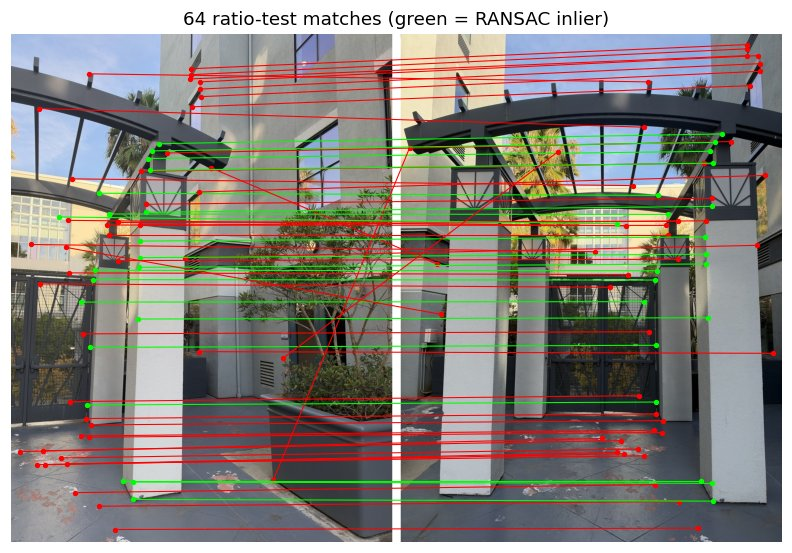
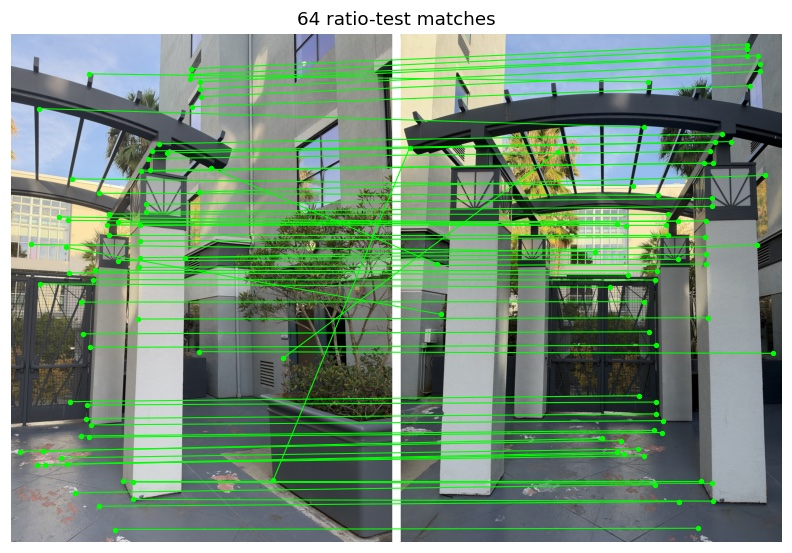
4b: rewrite B.2-B.4 and conclusion, green-only B.3 matches

Changed region(s): [[0.0, 0.0, 1.0, 0.9222], [0.1212, 0.953, 0.8788, 0.9837]]

diff --git a/cs180/project4/index.html b/cs180/project4/index.html
@@ -177,41 +177,28 @@
 <p>The three sets behave similarly; I don't see anything notably different between them.</p>
 
 <h2>B.2: Feature descriptors</h2>
-<p>For each corner I take the 40×40 window around it and turn it into an 8×8 patch by sampling every 5 pixels. I blur the image first (Gaussian, sigma 2.5) so each sample summarizes its 5×5 block instead of aliasing a single pixel. That's the point of the big window: a blurry descriptor tolerates a few pixels of error in the corner position. Then I bias/gain-normalize each patch (subtract its mean, divide by its standard deviation), so a brighter or darker exposure of the same spot still gives the same vector. Corners whose window runs off the image are dropped.</p>
+<p>We then take 40×40 window patches around all the corners, and we need to pre-process them. The general idea is to normalize, so that local extremes are less influential on the overall feature matching. The normalization happens in two ways. One is a Gaussian blur (sigma 2.5) before sampling the window down to 8×8, which handles it from the absolute, pixel-level perspective. The other is bias/gain normalization (subtract the mean, divide by the standard deviation), which handles brightness and contrast differing by a factor between photos.</p>
 <figure class="wide"><img src="assets/mosaic2_descriptors.jpg" alt="eight random gate features: 40x40 window above, normalized 8x8 descriptor below"></figure>
 <figure class="wide"><img src="assets/mosaic3_descriptors.jpg" alt="eight random courtyard features: 40x40 window above, normalized 8x8 descriptor below"></figure>
-<p>Top row is the 40×40 window in color, bottom row is the normalized 8×8 descriptor that is actually compared. The window edges and grid lines are still clearly visible at 8×8.</p>
 
 <h2>B.3: Feature matching</h2>
-<p>I compute the Euclidean distance between every descriptor in one image and every descriptor in the other (the provided <code>dist2</code>), and find each feature's nearest and second-nearest neighbour. Following Lowe, a match is kept only when the best neighbour is much better than the second best:</p>
+<p>After pre-processing, we try to find feature matches. I went with Lowe's idea and only count a match when the nearest neighbour is much closer than the second nearest:</p>
 \[ \frac{d_{1\text{-NN}}}{d_{2\text{-NN}}} < 0.6 \]
-<p>The idea is that a true match has one clear partner, while a wrong match on a repeated texture (cabinet doors, windows) looks about as good as several others. Figure 6b in the paper shows correct and incorrect matches separating around \(e_{1\text{-NN}}/e_{2\text{-NN}} \approx 0.4\) in squared error, and my distance ratio of 0.6 is 0.36 in squared terms.</p>
-<p>The ratio test isn't perfect. The red lines below are matches that passed it but were rejected by RANSAC in B.4, many of them on repeated windows and cabinet edges.</p>
+<p>This is a very interesting idea, and I'll explain more in the last paragraph. Basically, it gave me a new perspective on seeing images in a relative rather than absolute manner.</p>
 <figure class="wide"><img src="assets/mosaic3_left_matches.jpg" alt="courtyard left to center: ratio-test matches"></figure>
 <figure class="wide"><img src="assets/mosaic1_left_matches.jpg" alt="kitchen left to center: ratio-test matches"></figure>
 
 <h2>B.4: RANSAC and automatic mosaics</h2>
-<p>4-point RANSAC, implemented from scratch:</p>
+<p>After all that, we still have a decent amount of garbage matches, so we follow the idea of RANSAC:</p>
 <ol>
-  <li>Pick 4 random matches and compute the exact homography through them with <code>computeH</code> from Part A.</li>
-  <li>Map every matched point from image 1 through that \(H\) and count the inliers, the matches that land within 2 pixels of their partner in image 2.</li>
-  <li>Repeat 5000 times and keep the largest inlier set.</li>
+  <li>Pick 4 random matches and compute the exact \(H\) (with <code>computeH</code> from Part A).</li>
+  <li>Map every matched point from image 1 through that \(H\) and count the inliers, which here means the matches that land within 2 pixels of their partner in image 2.</li>
+  <li>Repeat this 5000 times and keep the largest inlier set.</li>
   <li>Refit \(H\) with least squares on all the inliers of the best set.</li>
 </ol>
-<p>Even with half the matches wrong, a random sample of 4 is all-correct about 1 time in 16, so 5000 iterations find a clean sample many times over. The final least-squares fit uses every inlier, not just 4 points, so it is less noisy than any single sample.</p>
-<table>
-  <thead><tr><th>pair</th><th>ratio-test matches</th><th>RANSAC inliers</th></tr></thead>
-  <tbody>
-    <tr><td>Kitchen, left → center</td><td>50</td><td>15</td></tr>
-    <tr><td>Kitchen, right → center</td><td>150</td><td>34</td></tr>
-    <tr><td>Gate, left → center</td><td>77</td><td>25</td></tr>
-    <tr><td>Gate, right → center</td><td>64</td><td>20</td></tr>
-    <tr><td>Courtyard, left → center</td><td>53</td><td>41</td></tr>
-    <tr><td>Courtyard, right → center</td><td>48</td><td>36</td></tr>
-  </tbody>
-</table>
-<figure class="wide"><img src="assets/mosaic2_left_inliers.jpg" alt="gate left to center: RANSAC inliers"></figure>
-<p>The homographies then go straight into my Part A mosaic code (bilinear inverse warping, linear-falloff alpha blending). Manual on the left, automatic on the right:</p>
+<p>Basically, we try to find the \(H\) that the most matches agree with, and then fit it on all of those agreeing pairs. A lot of matches get rejected. In the kitchen below, green lines are the RANSAC inliers and red lines are the rejected matches: every match on the repetitive cabinet doors is thrown out, and only the ones on the rice bag agree with a single homography.</p>
+<figure class="wide"><img src="assets/mosaic1_left_ransac.jpg" alt="kitchen left to center: 15 RANSAC inliers in green, 35 rejected matches in red"></figure>
+<p>Then we just proceed with the Part A code using the homographies found, and get the following results. Manual on the left, automatic on the right:</p>
 <h3>Kitchen</h3>
 <div class="pair">
   <figure><img src="../project4a/assets/mosaic1.jpg" alt="kitchen, manual"><figcaption>manual (Part A)</figcaption></figure>
@@ -227,22 +214,18 @@
   <figure><img src="../project4a/assets/mosaic3.jpg" alt="courtyard, manual"><figcaption>manual (Part A)</figcaption></figure>
   <figure><img src="assets/mosaic3_auto.jpg" alt="courtyard, automatic"><figcaption>automatic</figcaption></figure>
 </div>
-<p>TODO (Haoming): write what you notice comparing these. Things I see: the gate and courtyard come out essentially the same as my hand-clicked versions; the courtyard's automatic result uses 41 and 36 inliers against my 8 clicks per pair; the kitchen is the hardest case because the cabinet doors are nearly textureless and repetitive, so its inliers cluster on the rice bag and the counter.</p>
+<p>First of all, I don't think there is a huge change. If anything, the manual version might even be a little better, especially for the kitchen, which is contrary to what I expected. Looking closer, the automatic method did a better job on the gate and courtyard than on the kitchen. I think this is because there are more corners to find in the first place on the gate and courtyard, while the kitchen has big smooth surfaces, which make good features really hard to find. Another thing I learned is that more matches don't automatically make things better: the automatic version uses 15 to 41 inliers per pair against only 8 hand-clicked pairs, and the hand-clicked ones often work just as well or better.</p>
 
 <h2>What I learned</h2>
-<p>TODO (Haoming): the spec asks what the coolest thing you learned was. One sentence in your own words.</p>
+<p>What I find coolest about this project is that it taught me to look at things relatively. This shows up in both B.3 and B.4. In B.3, it is using the ratio between the first and second nearest-neighbour distances as the threshold, instead of an absolute distance. In B.4, it is RANSAC: a homography is not judged on its own, but by how many of the other matches agree with it. Both taught me not to look at the absolute but at the relative, which often works better, because that's how we find features and differences in the first place. I think this idea will generalize well beyond these specific cases.</p>
 
 <details>
-<summary>Appendix B: all matches and inliers</summary>
-<figure class="wide"><img src="assets/mosaic1_right_matches.jpg" alt="kitchen right to center: matches"></figure>
-<figure class="wide"><img src="assets/mosaic2_left_matches.jpg" alt="gate left to center: matches"></figure>
-<figure class="wide"><img src="assets/mosaic2_right_matches.jpg" alt="gate right to center: matches"></figure>
-<figure class="wide"><img src="assets/mosaic3_right_matches.jpg" alt="courtyard right to center: matches"></figure>
-<figure class="wide"><img src="assets/mosaic1_left_inliers.jpg" alt="kitchen left to center: inliers"></figure>
-<figure class="wide"><img src="assets/mosaic1_right_inliers.jpg" alt="kitchen right to center: inliers"></figure>
-<figure class="wide"><img src="assets/mosaic2_right_inliers.jpg" alt="gate right to center: inliers"></figure>
-<figure class="wide"><img src="assets/mosaic3_left_inliers.jpg" alt="courtyard left to center: inliers"></figure>
-<figure class="wide"><img src="assets/mosaic3_right_inliers.jpg" alt="courtyard right to center: inliers"></figure>
+<summary>Appendix B: all matches and RANSAC inliers</summary>
+<figure class="wide"><img src="assets/mosaic1_right_ransac.jpg" alt="kitchen right to center: inliers green, rejected red"></figure>
+<figure class="wide"><img src="assets/mosaic2_left_ransac.jpg" alt="gate left to center: inliers green, rejected red"></figure>
+<figure class="wide"><img src="assets/mosaic2_right_ransac.jpg" alt="gate right to center: inliers green, rejected red"></figure>
+<figure class="wide"><img src="assets/mosaic3_left_ransac.jpg" alt="courtyard left to center: inliers green, rejected red"></figure>
+<figure class="wide"><img src="assets/mosaic3_right_ransac.jpg" alt="courtyard right to center: inliers green, rejected red"></figure>
 <figure class="wide"><img src="assets/mosaic1_descriptors.jpg" alt="kitchen descriptors"></figure>
 </details>
 
